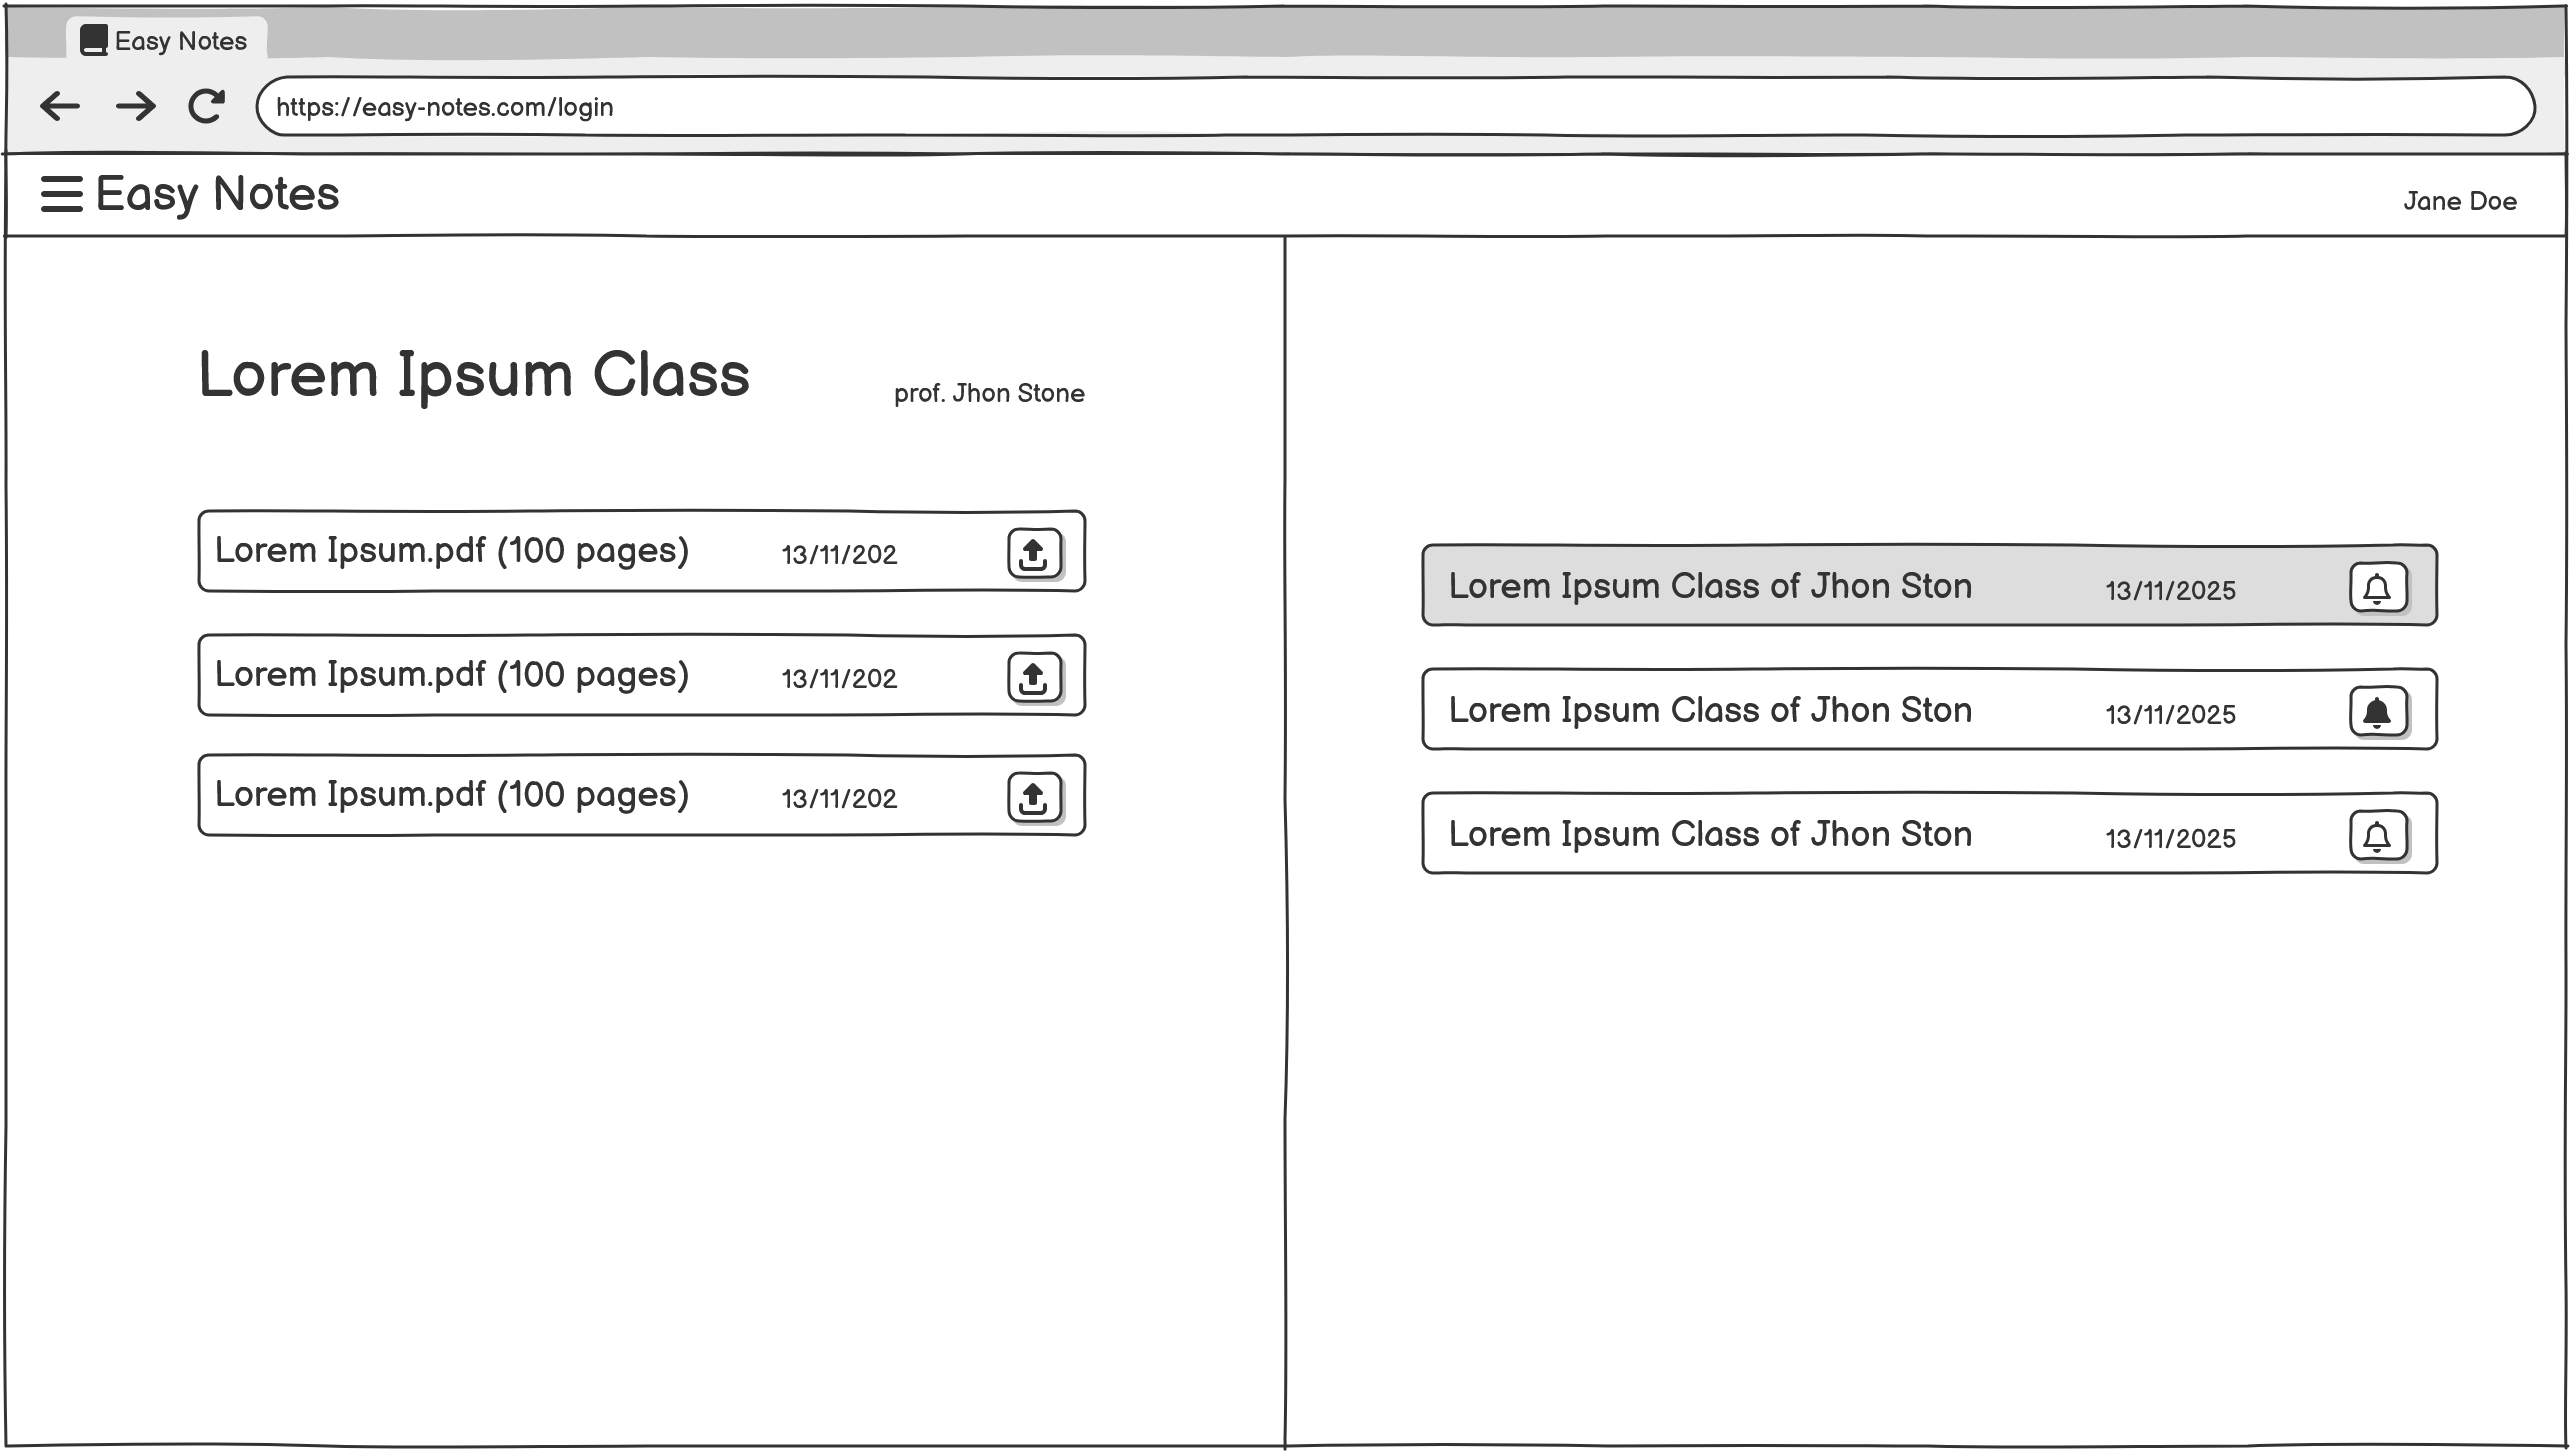
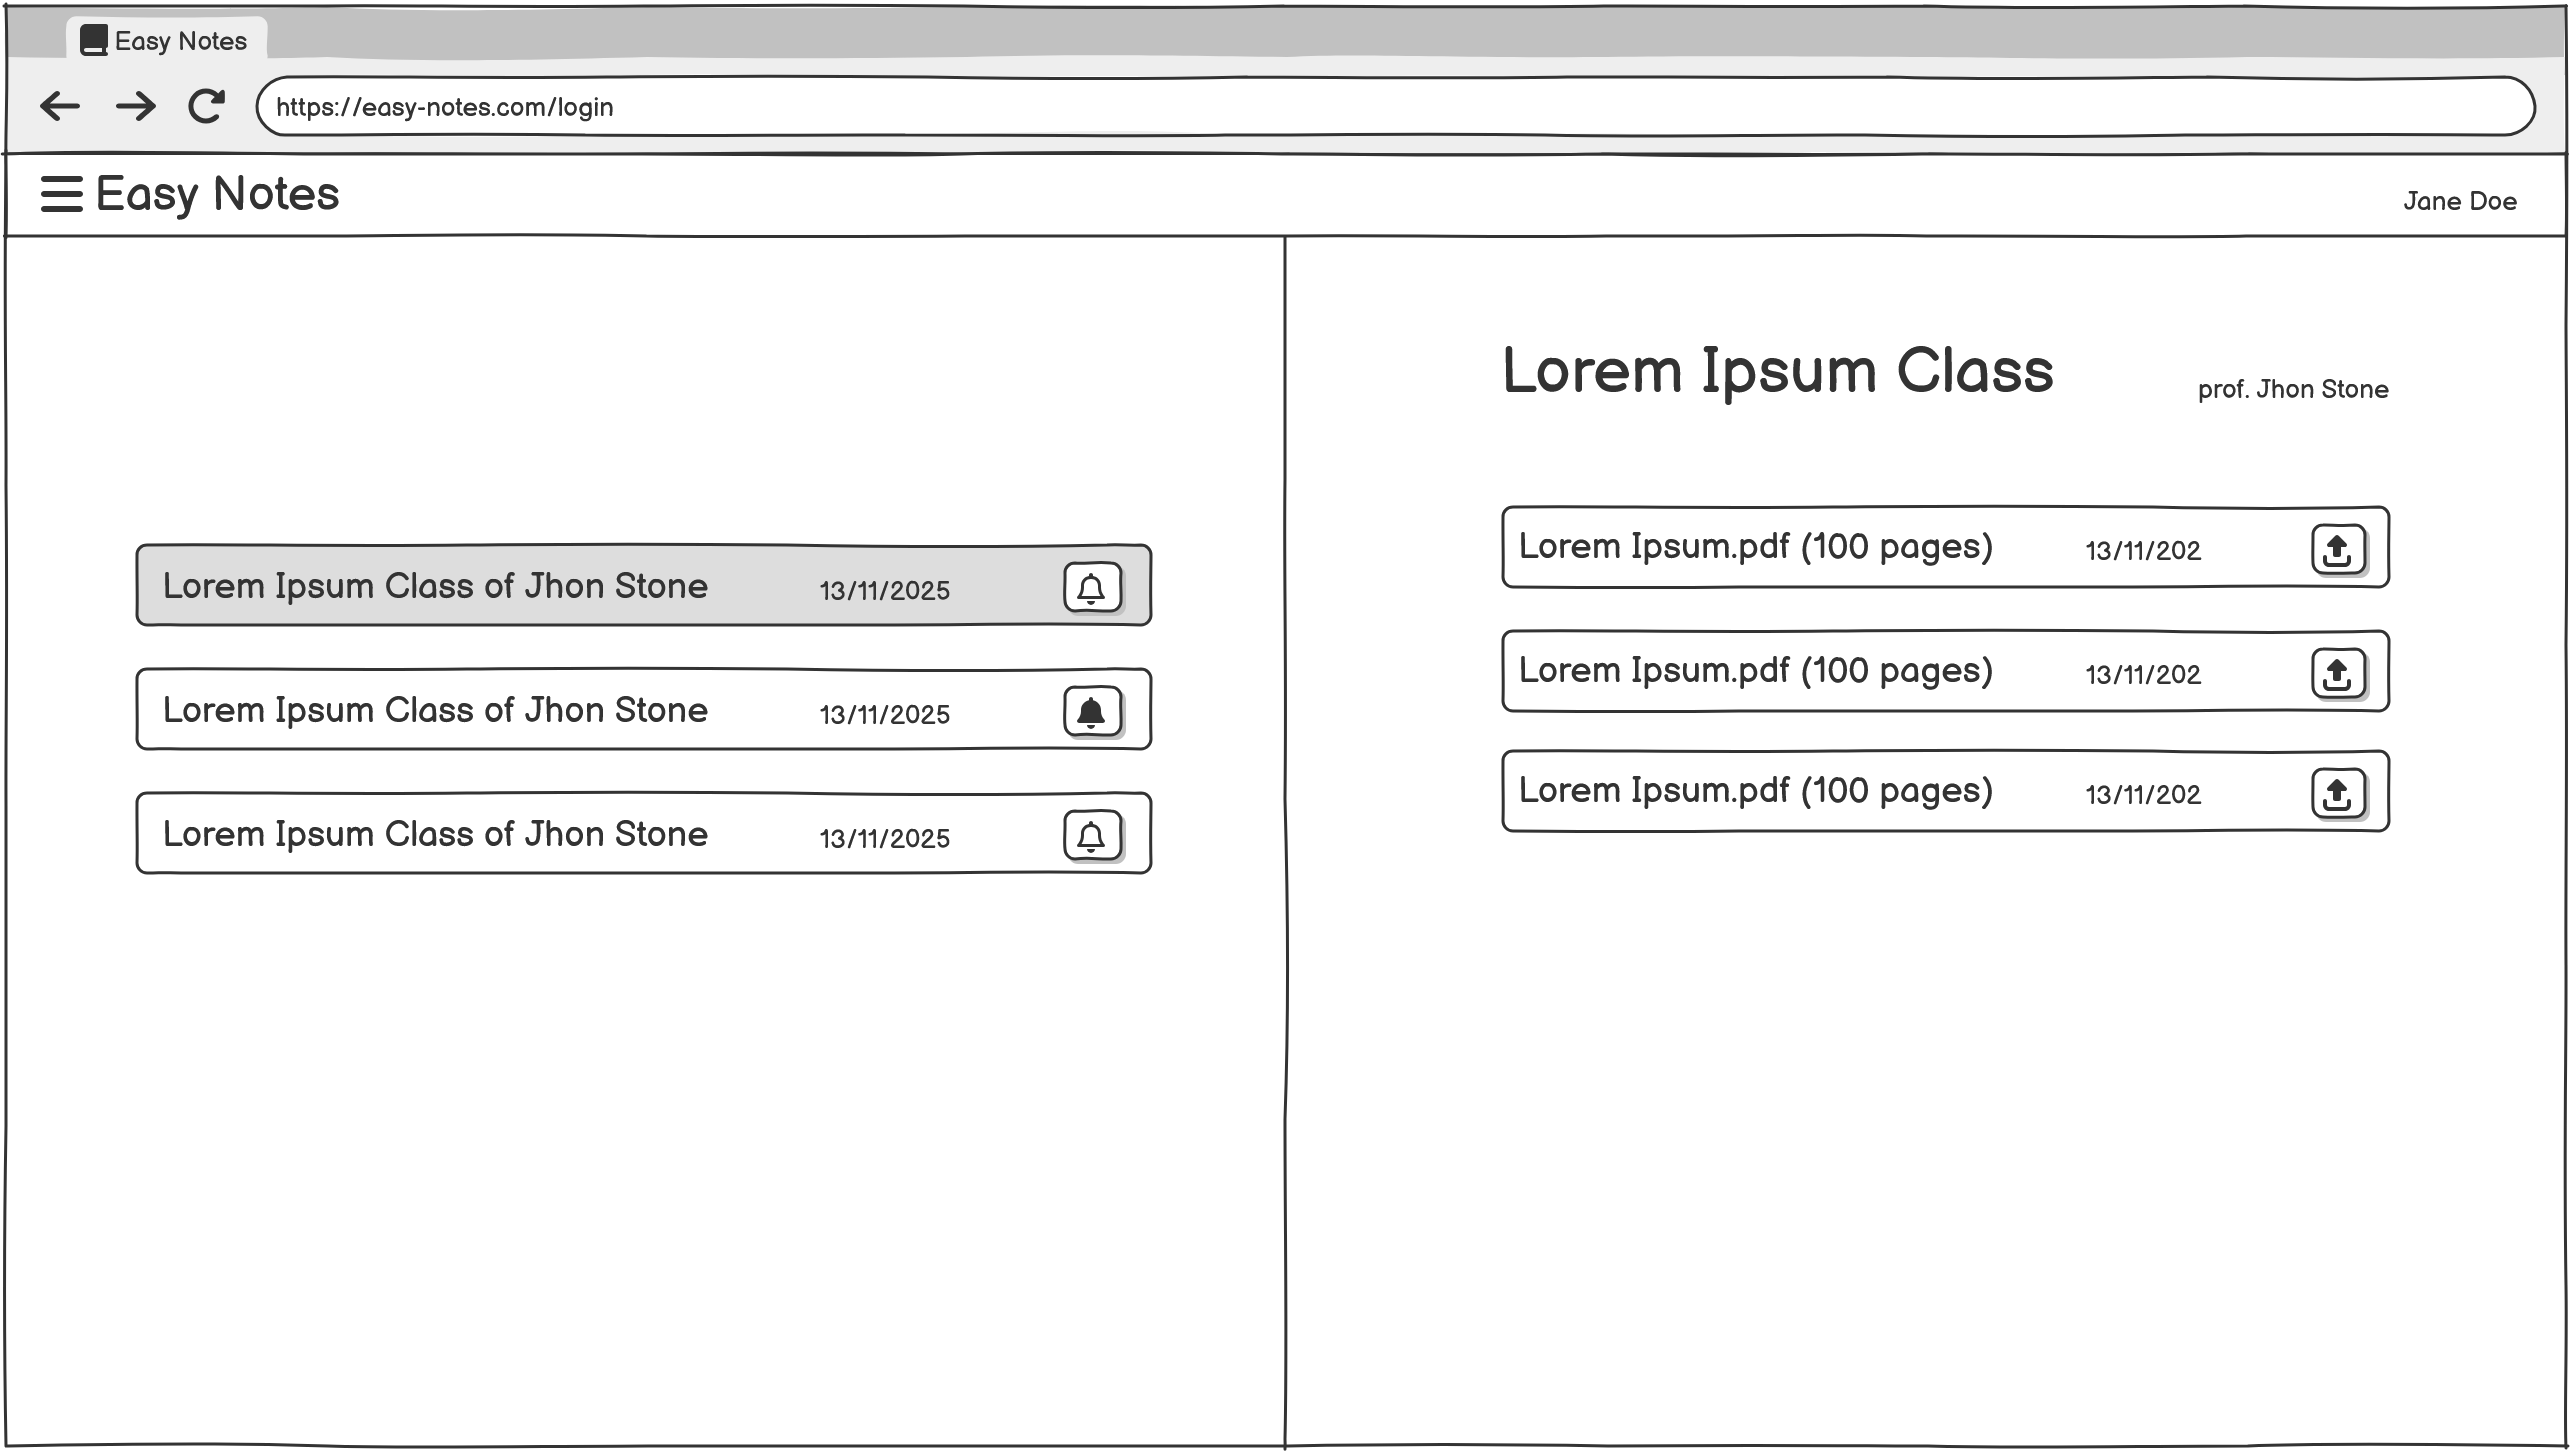
docs: fix mockup chapter

diff --git a/report/chapters/sections/mockup.tex b/report/chapters/sections/mockup.tex
@@ -95,4 +95,5 @@ Per concludere è degno di nota menzionare l'assenza di mockup mobile in quanto 
 può sfruttare al meglio lo schermo ampio per visualizzare sia le slide che le note
 contemporaneamente. Infine, si può facilmente notare la consistenza stilistica della divisione
 a metà delle pagine, questo proprio per mantenere l'effetto di un vero e proprio quaderno
-digitale.
+digitale; la posizione delle pagine cerca, infatti, di seguire la direzione di lettura da sinistra verso
+destra.
